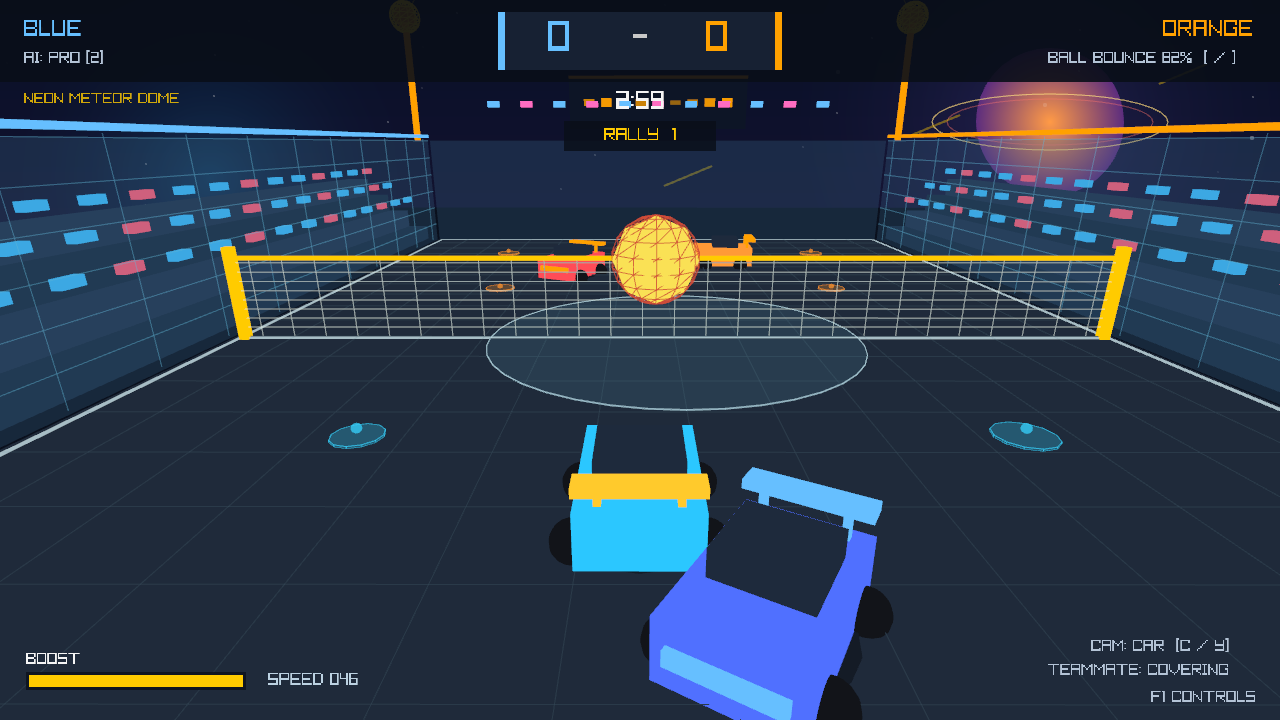
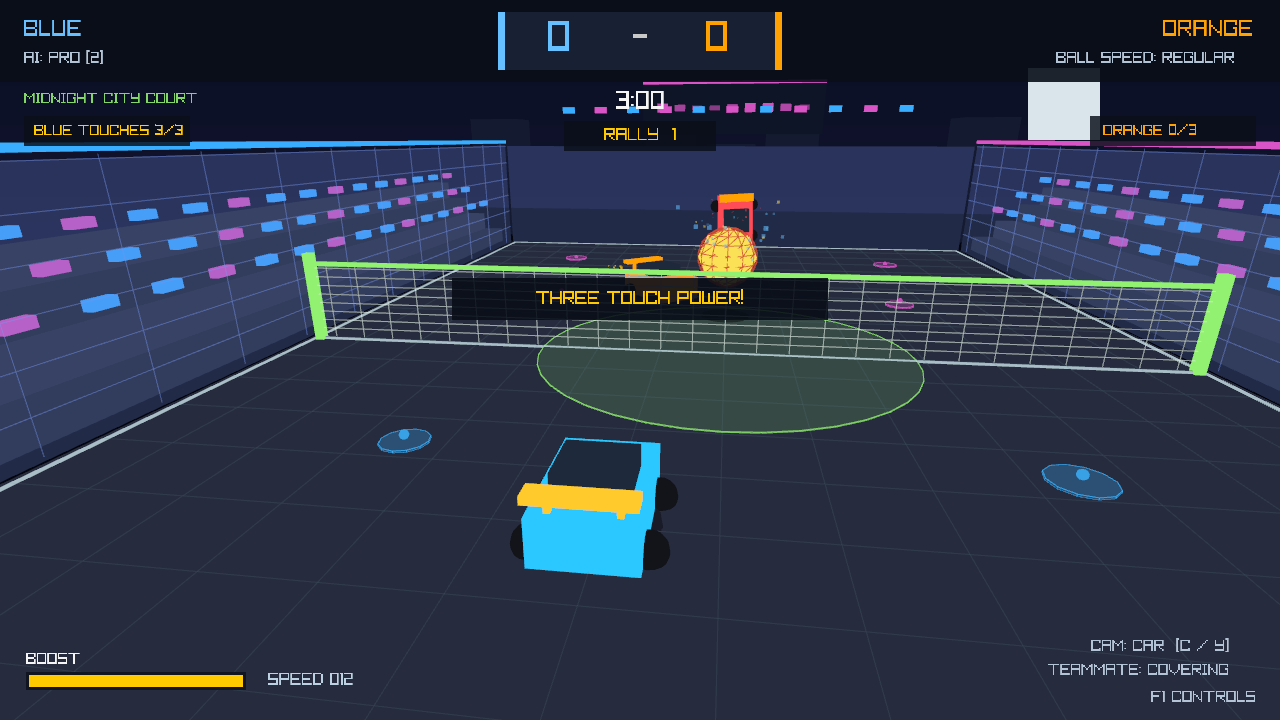
v0.8

diff --git a/docs/RELEASE.md b/docs/RELEASE.md
@@ -2,13 +2,15 @@
 
 ## Product decision
 
-The primary release should be a portable Windows download: one versioned ZIP containing `RocketVolley.exe` and the five-line player README. Players extract it and run the executable; there is no installer, account, launcher, or admin requirement. Build a Release configuration and run `cmake --build build-release --target package_windows`; CPack emits `RocketVolley-1.4.0-windows-x64.zip` plus a SHA-256 checksum. Publish that exact asset on a GitHub Release first, with itch.io as an optional second storefront. GitHub supports stable `releases/latest` download links and keeps versioned assets attached to each release.
+The primary release should be a portable Windows download: one versioned ZIP containing `RocketVolley.exe` and the five-line player README. Players extract it and run the executable; there is no installer, account, launcher, or admin requirement. Build a Release configuration and run `cmake --build build-release --target package_windows`; CPack emits `RocketVolley-0.8-windows-x64.zip` plus a SHA-256 checksum. Publish that exact asset on a GitHub Release first, with itch.io as an optional second storefront. GitHub supports stable `releases/latest` download links and keeps versioned assets attached to each release.
+
+The `.github/workflows/release.yml` workflow now performs that release automatically on a version tag such as `v0.8`, or from **Actions > Windows Release > Run workflow**. It rejects tags that do not match the CMake project version, builds the x64 Release executable, runs the hidden smoke test, creates and verifies the ZIP checksum, keeps a 14-day workflow artifact, and publishes or refreshes the permanent GitHub Release assets. For manual publishing, enter `v0.8` for the current source version; future versions should update `project(... VERSION ...)` first.
 
 ## Can this become online multiplayer?
 
 Yes, but networking should not be added by sending the current Jolt bodies directly between peers. Keep Jolt authoritative on one host, send timestamped player inputs to that host, and broadcast compact car/ball snapshots. Run gameplay physics at the existing 120 Hz, accept inputs at 60 Hz, send snapshots around 20-30 Hz, interpolate remote cars, and use prediction plus reconciliation for the local car. The ball and score always follow the host. This keeps a 2v2 match playable while avoiding four competing physics truths.
 
-Version 1.4 establishes the first multiplayer boundary: local co-op routes Player 2 through a versioned `PlayerInputPacket`, while the authoritative game can emit validated `WorldSnapshotPacket` state for the ball, four cars, score, arena, clock, and team-touch possession. Both packet types use explicit little-endian serialization, protocol magic/version checks, finite-value validation, and corrupt-packet rejection. The next transport milestone is LAN/direct-IP host/client delivery with snapshot interpolation using Valve's open-source GameNetworkingSockets, which supplies reliable and unreliable encrypted messages but deliberately does not serialize game state. For a Steam release, the same protocol can move to Steam Networking Sockets plus Steam Lobbies/relays so player IPs stay hidden. Host migration, reconnects, version compatibility, input prediction/reconciliation, replay capture, and anti-cheat boundaries follow the first host-authoritative transport prototype.
+Version 0.8 establishes the first multiplayer boundary: local co-op routes Player 2 through a versioned `PlayerInputPacket`, while the authoritative game can emit validated `WorldSnapshotPacket` state for the ball, four cars, score, arena, clock, and team-touch possession. Both packet types use explicit little-endian serialization, protocol magic/version checks, finite-value validation, and corrupt-packet rejection. The next transport milestone is LAN/direct-IP host/client delivery with snapshot interpolation using Valve's open-source GameNetworkingSockets, which supplies reliable and unreliable encrypted messages but deliberately does not serialize game state. For a Steam release, the same protocol can move to Steam Networking Sockets plus Steam Lobbies/relays so player IPs stay hidden. Host migration, reconnects, version compatibility, input prediction/reconciliation, replay capture, and anti-cheat boundaries follow the first host-authoritative transport prototype.
 
 ## Web build
 

diff --git a/README.md b/README.md
@@ -1,5 +1,19 @@
 # Rocket Volley
 Retro 3D 2v2 car volleyball across forest, beach, city, and canyon arenas: first to 7 wins.
-Default controls: WASD drive, Space double-jumps, E dodges, Shift boosts, and C toggles cameras (gamepad supported).
-Play solo, local co-op (P1 keyboard/P2 gamepad), or resettable training; three touches power the return, while a fourth loses the point.
-![Double-jump aerial](docs/images/gameplay-aerial.png) ![Ball Cam gameplay](docs/images/gameplay-ball.png)
+**[Download the latest Windows release](https://github.com/VrajP0518/RocketVolley/releases/latest)**, open **Assets**, and choose `RocketVolley-*-windows-x64.zip` (not “Source code”).
+Extract the entire ZIP, keep its files together, and run `RocketVolley.exe` on Windows 10/11—there is no installer.
+Controls: WASD drive, Space double-jumps, E dodges, Shift boosts, C changes camera; play solo, training, or local co-op with P2 on gamepad.
+
+## Gameplay
+
+### Local co-op and three-touch power
+
+![Two-player local co-op match showing the three-touch power mechanic](docs/images/gameplay-car.png)
+
+### Beach training arena
+
+![Solo serve training in the Sunsplash Beach Club arena](docs/images/gameplay-ball.png)
+
+### Double-jump aerial
+
+![A car performing a double-jump aerial in Ember Canyon Stadium](docs/images/gameplay-aerial.png)
